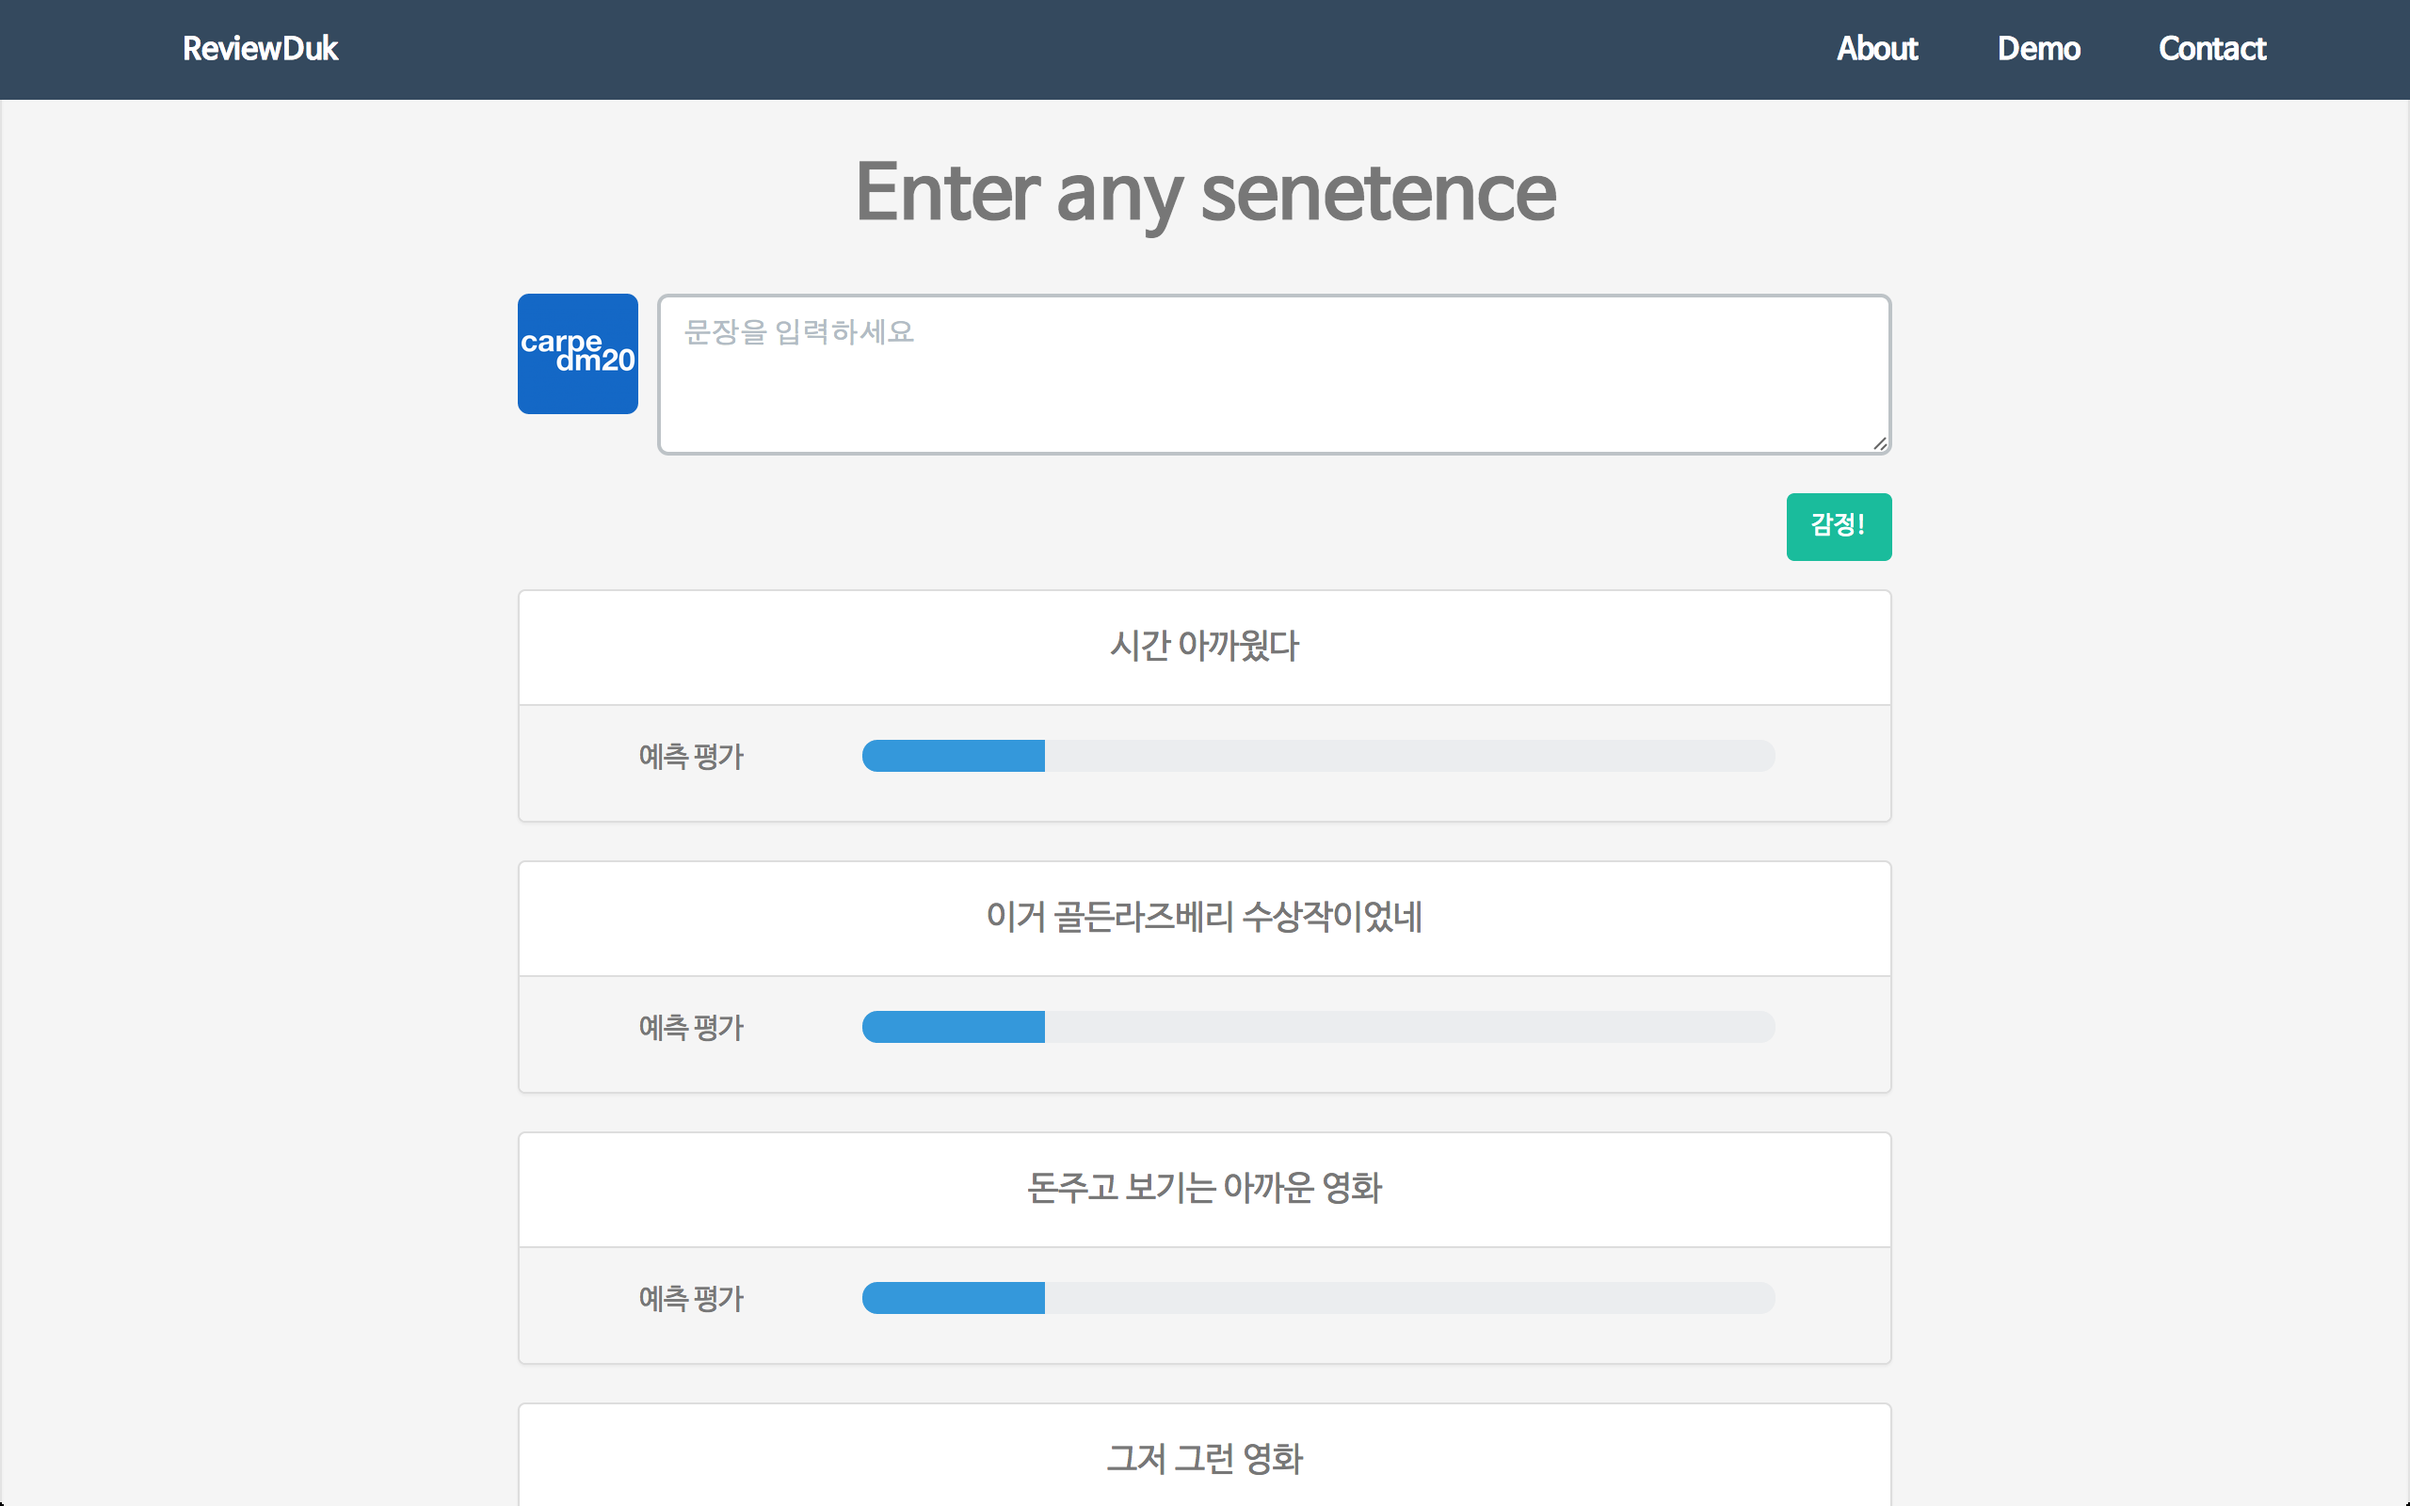
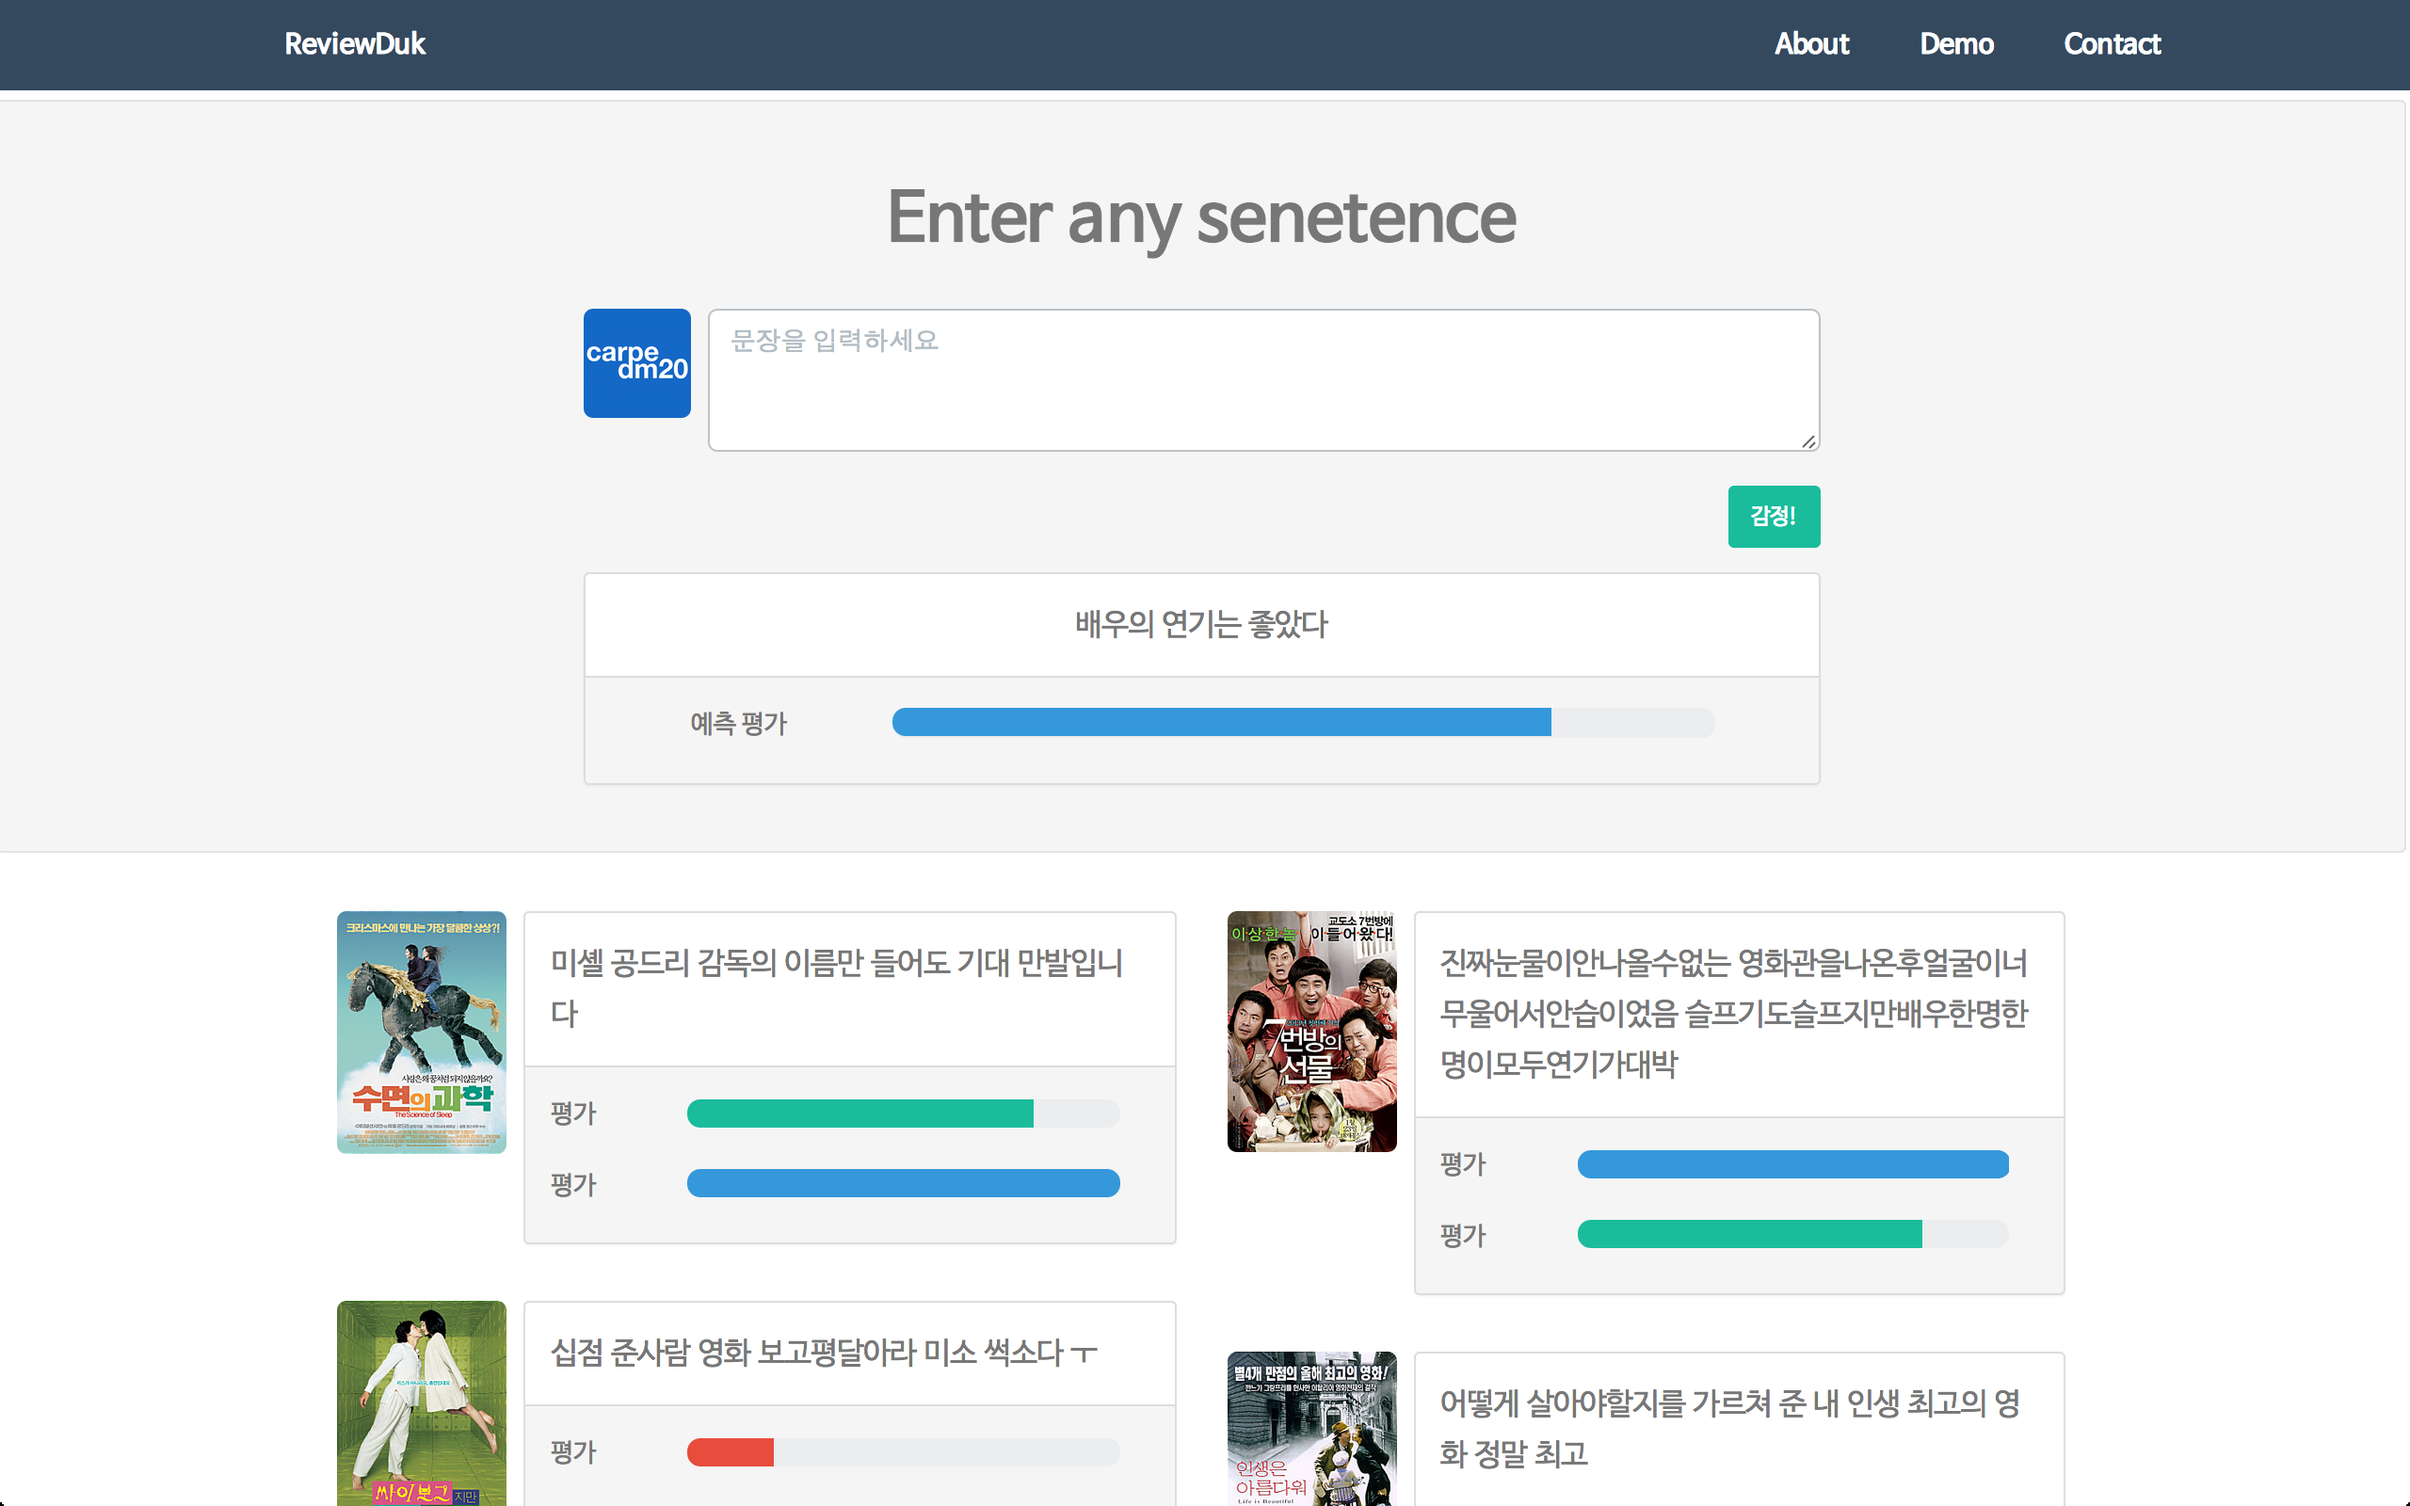
README.md update

diff --git a/templates/index.html b/templates/index.html
@@ -47,8 +47,8 @@
   </div>
 
   <div class="container review-container">
-    <div id="reviews" class="col-xs-12 col-md-11 col-md-offset-1" masonry="{ transitionDuration: '0.4s' }">
-      <div class="review col-md-5 col-xs-12" ng-repeat="review in reviews" review-directive>
+    <div id="reviews" class="col-xs-12 col-md-12" style="padding: 0;">
+      <div class="review col-md-6 col-xs-12" ng-repeat="review in reviews" review-directive>
         {% include 'review.html' %}
       </div>
     </div>

diff --git a/static/js/app.js b/static/js/app.js
@@ -50,7 +50,7 @@ var reviewApp = angular.module('reviewApp',['wu.masonry','angular-loading-bar'])
           var container = document.querySelector('#reviews');
           var msnry = new Masonry( container, {
             itemSelector: '.review',
-            columnWidth: '.col-md-5',
+            columnWidth: '.col-md-6',
             gutter: 0
           });
         });

diff --git a/README.md b/README.md
@@ -28,6 +28,7 @@ Screenshot
 ![alt_tag](https://raw.githubusercontent.com/carpedm20/reviewduk/master/demo/2.png)
 ![alt_tag](https://raw.githubusercontent.com/carpedm20/reviewduk/master/demo/3.png)
 ![alt_tag](https://raw.githubusercontent.com/carpedm20/reviewduk/master/demo/4.png)
+![alt_tag](https://raw.githubusercontent.com/carpedm20/reviewduk/master/demo/5.png)
 
 
 Copyright
